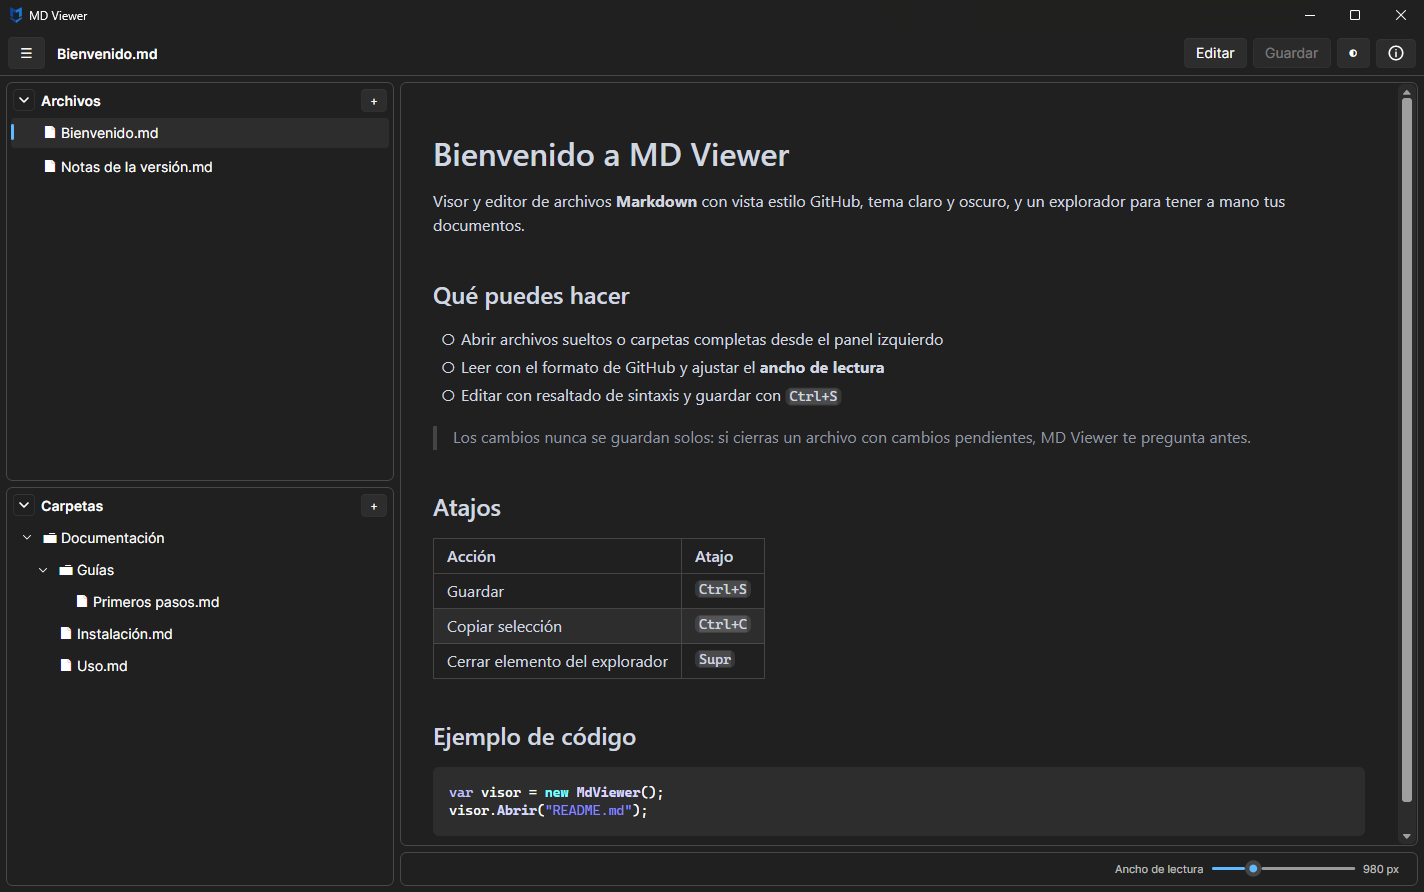
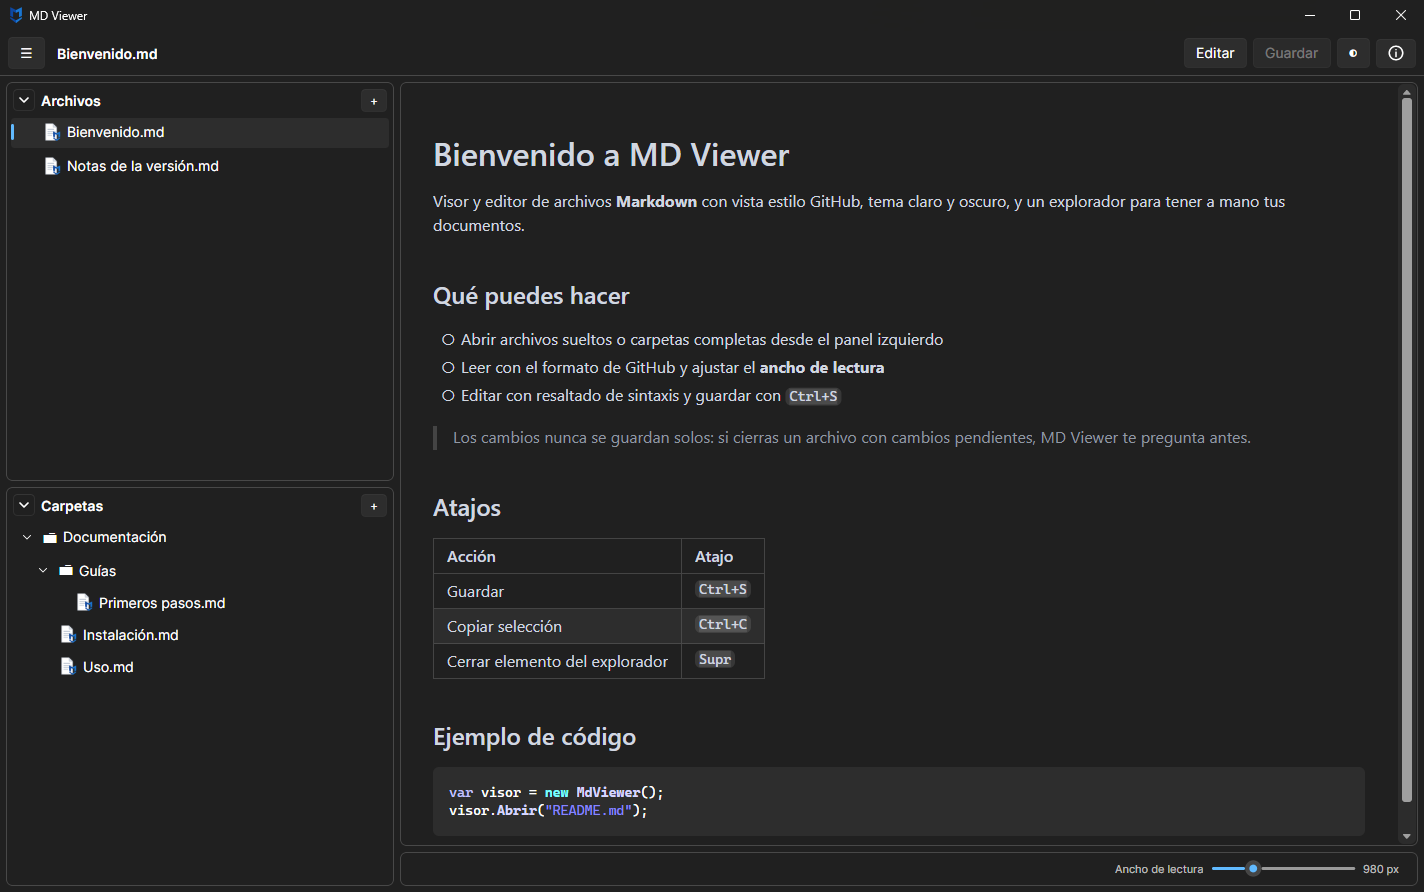
Icono de documento en el explorador y en Windows
- Panel izquierdo: los .md muestran el icono de documento (hoja + logo),
  en Archivos y dentro de Carpetas.
- Instalador de Windows: si Windows asoció los .md con su tipo propio
  md_auto_file (al elegir la app con "Elegir otra aplicación"), le pone
  también el icono de documento; antes mostraba el icono del .exe.
- Versión limpia en las propiedades del .exe (sin el hash del commit).
- tasks.json: corrige la tarea "Instalador: Windows" (la llave quedaba
  dentro de un comentario).
- Capturas del README actualizadas.

Changed region(s): [[0.0309, 0.5751, 0.1545, 0.7567], [0.0309, 0.1211, 0.1545, 0.2119]]

diff --git a/src/MdViewer/ViewModels/FsNode.cs b/src/MdViewer/ViewModels/FsNode.cs
@@ -21,7 +21,6 @@ public partial class FsNode : ObservableObject
     public string Name { get; }
     public string FullPath { get; }
     public bool IsFolder { get; }
-    public string Display => (IsFolder ? "📁 " : "📄 ") + Name;
     public ObservableCollection<FsNode> Children { get; } = [];
 
     [ObservableProperty]
